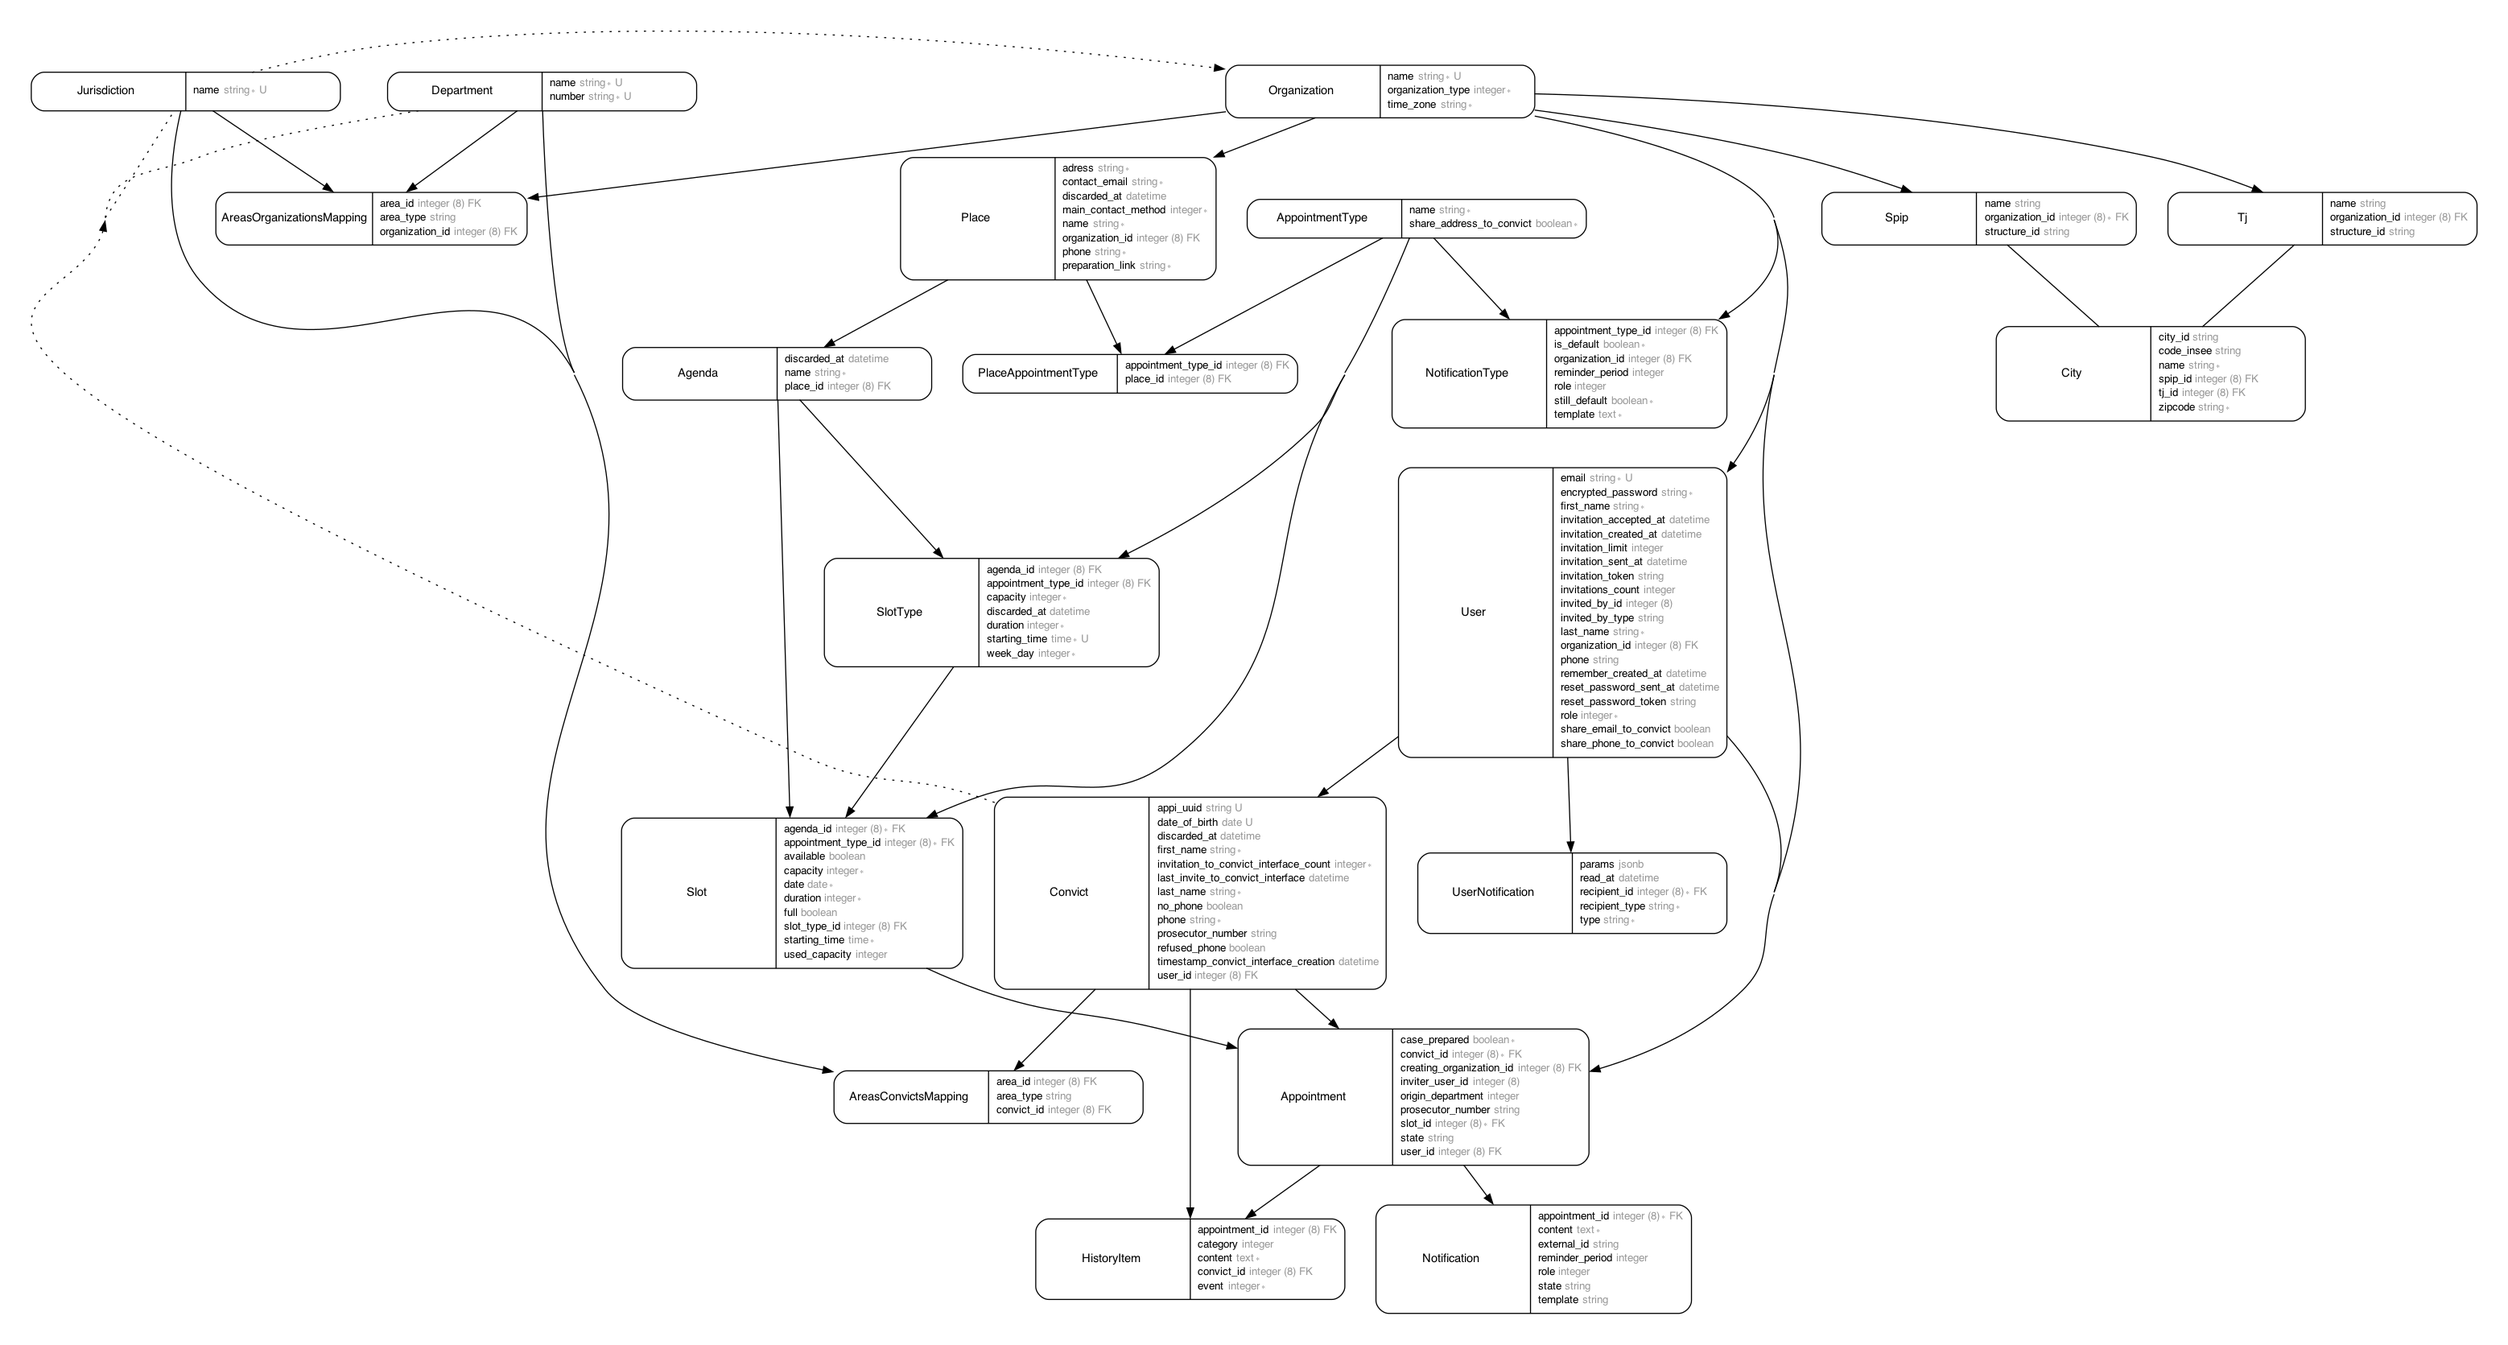
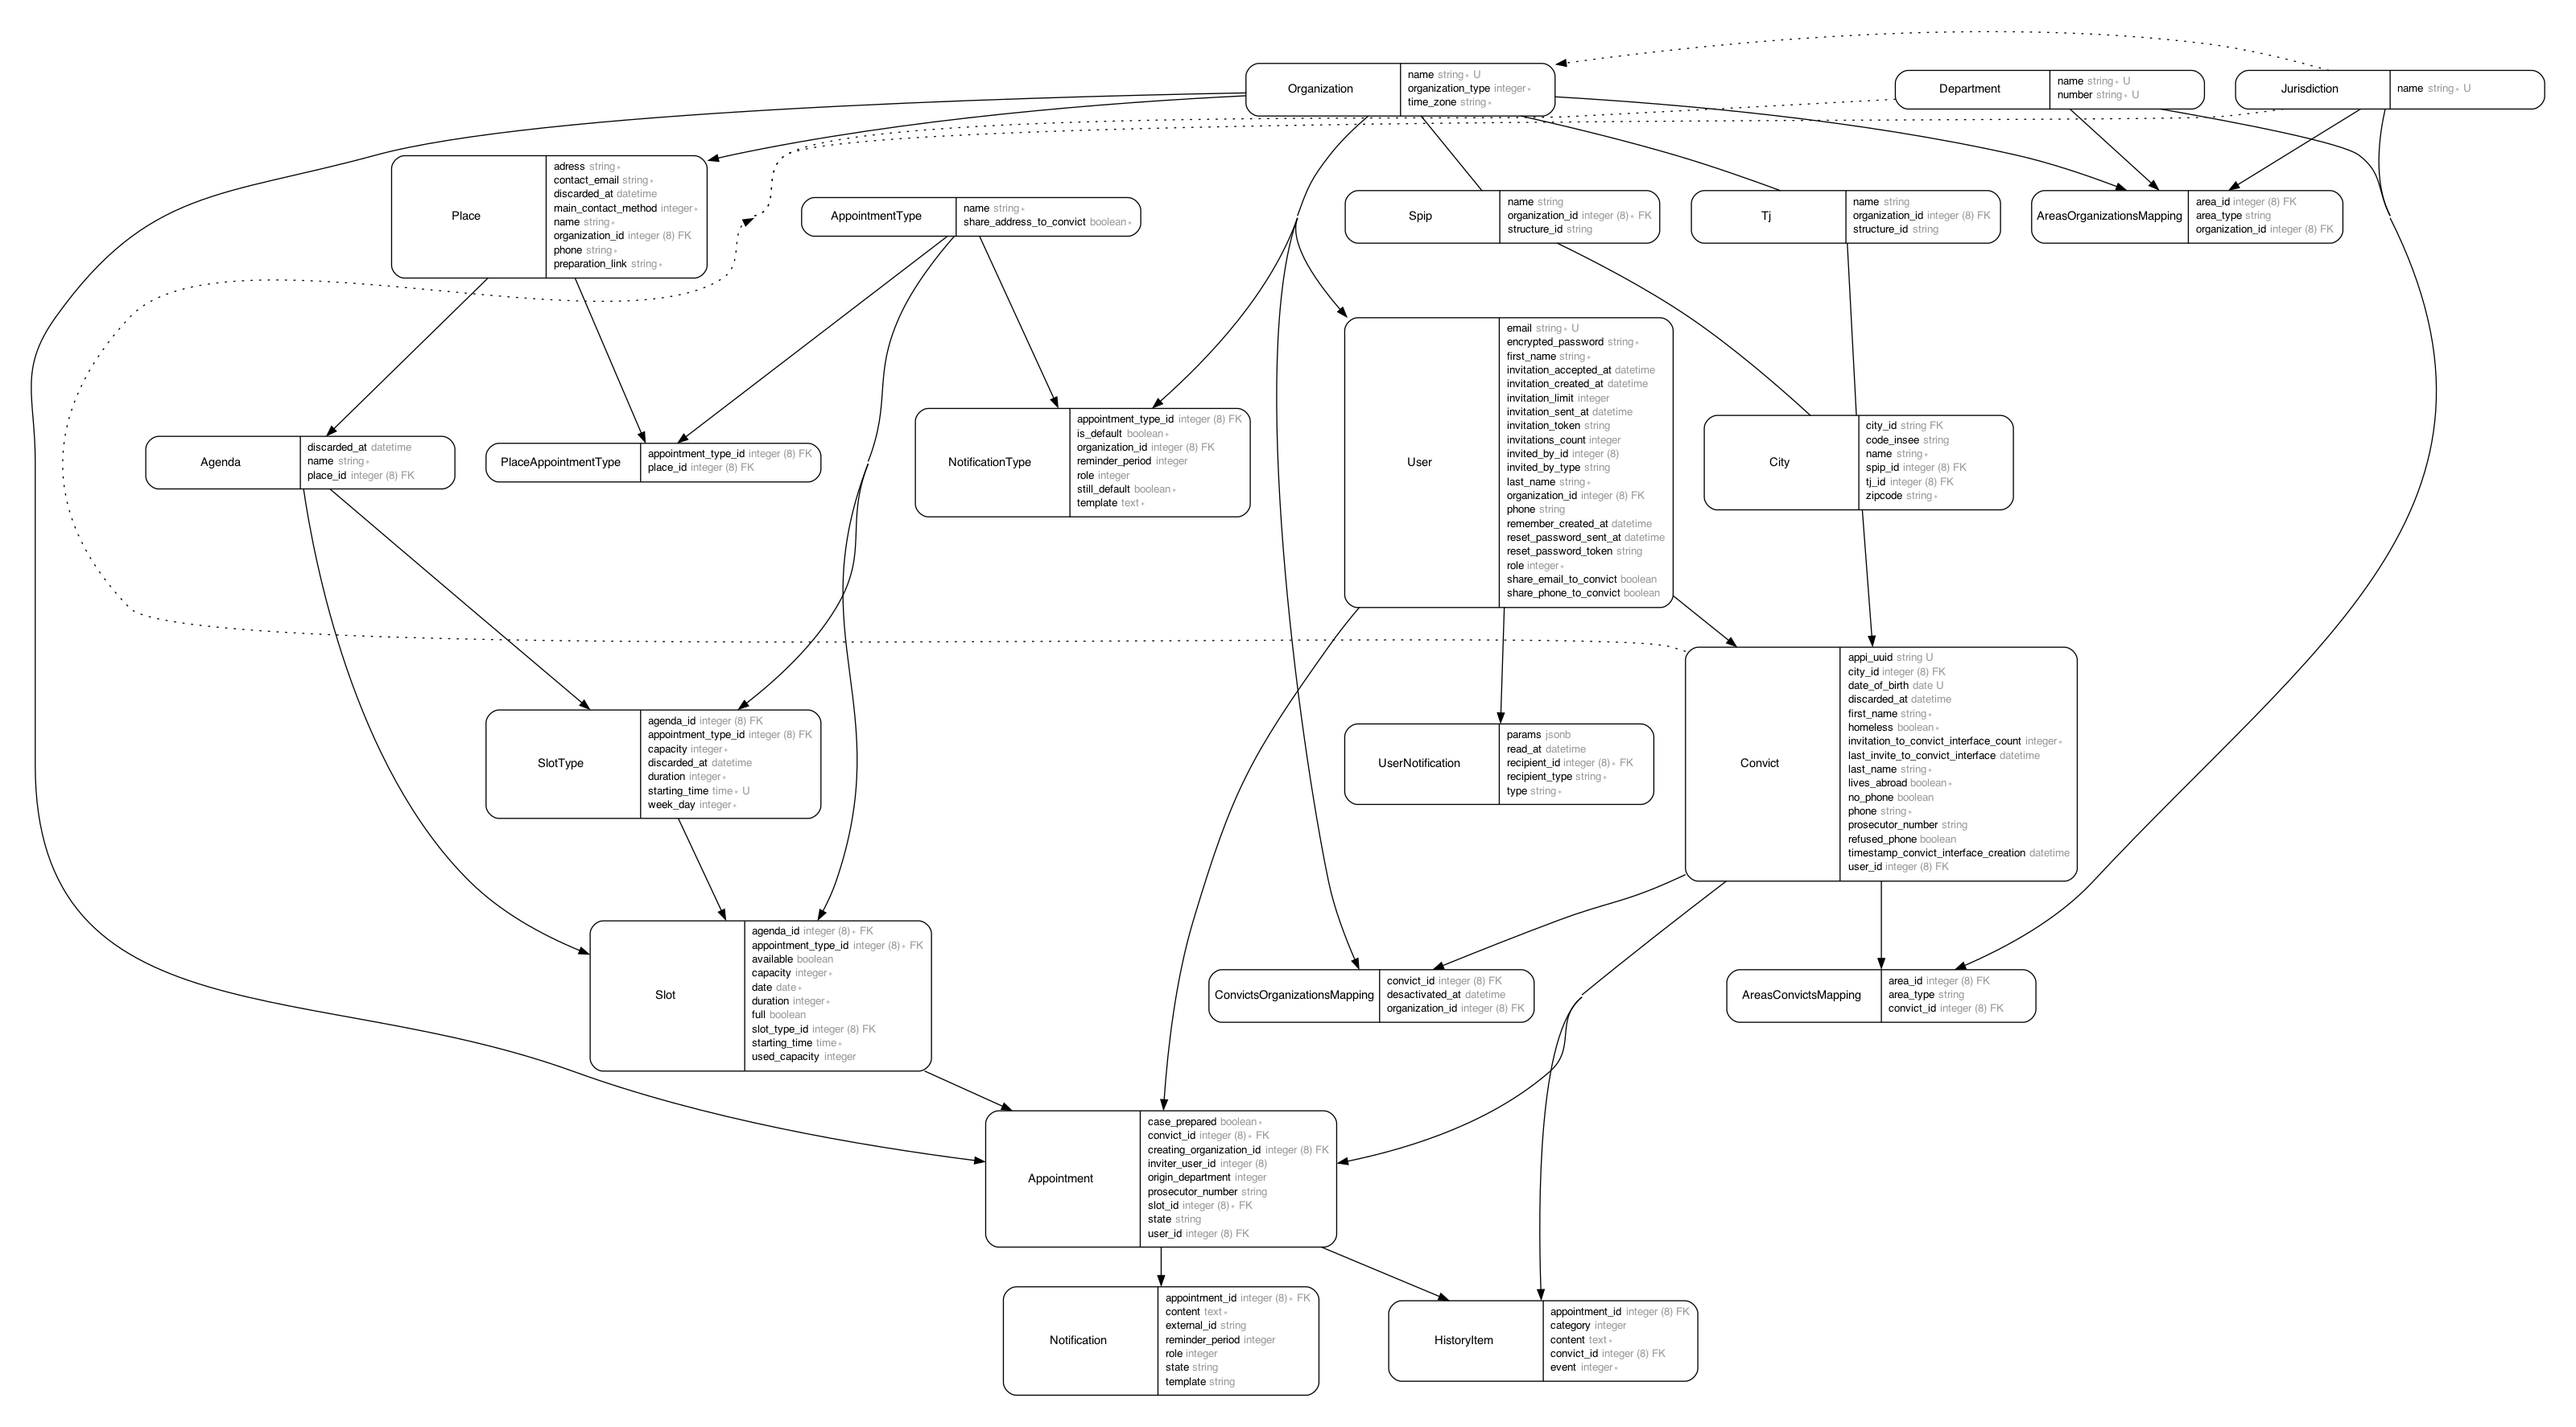
added many to many relation between convicts and organizations

diff --git a/app/assets/config/manifest.js b/app/assets/config/manifest.js
@@ -1,3 +1,5 @@
 //= link_tree ../images
 //= link_tree ../fonts
 //= link application.css
+//= link administrate-field-nested_has_many/application.css
+//= link administrate-field-nested_has_many/application.js

diff --git a/db/schema.rb b/db/schema.rb
@@ -10,7 +10,7 @@
 #
 # It's strongly recommended that you check this file into your version control system.
 
-ActiveRecord::Schema.define(version: 2023_01_24_143900) do
+ActiveRecord::Schema.define(version: 2023_02_02_152647) do
 
   # These are extensions that must be enabled in order to support this database
   enable_extension "plpgsql"
@@ -211,6 +211,16 @@ ActiveRecord::Schema.define(version: 2023_01_24_143900) do
     t.index ["user_id"], name: "index_convicts_on_user_id"
   end
 
+  create_table "convicts_organizations_mappings", force: :cascade do |t|
+    t.bigint "organization_id"
+    t.bigint "convict_id"
+    t.datetime "desactivated_at"
+    t.datetime "created_at", precision: 6, null: false
+    t.datetime "updated_at", precision: 6, null: false
+    t.index ["convict_id"], name: "index_convicts_organizations_mappings_on_convict_id"
+    t.index ["organization_id"], name: "index_convicts_organizations_mappings_on_organization_id"
+  end
+
   create_table "departments", force: :cascade do |t|
     t.string "number", null: false
     t.string "name", null: false
@@ -381,11 +391,11 @@ ActiveRecord::Schema.define(version: 2023_01_24_143900) do
     t.string "telephone", limit: 255
     t.string "telecopie", limit: 255
     t.string "email", limit: 255
-    t.string "code_insee"
+    t.string "code_insee", limit: 255
     t.string "code_postal", limit: 255
     t.string "ligne_acheminement", limit: 255
-    t.string "mnemo"
-    t.text "ville"
+    t.string "mnemo", limit: 255
+    t.bigint "tri"
     t.boolean "competent_matiere_nationale"
   end
 
@@ -406,7 +416,6 @@ ActiveRecord::Schema.define(version: 2023_01_24_143900) do
     t.string "libelle_court", limit: 255
     t.text "libelle_long"
     t.text "commentaire"
-    t.boolean "is_baj"
   end
 
   create_table "user_notifications", force: :cascade do |t|

diff --git a/app/dashboards/convict_dashboard.rb b/app/dashboards/convict_dashboard.rb
@@ -13,6 +13,7 @@ class ConvictDashboard < Administrate::BaseDashboard
     ),
     first_name: Field::String,
     last_name: Field::String,
+    organizations: Field::HasMany,
     appi_uuid: Field::String,
     city: Field::BelongsTo,
     appointments: Field::HasMany,
@@ -72,6 +73,7 @@ class ConvictDashboard < Administrate::BaseDashboard
   # on the model's form (`new` and `edit`) pages.
   FORM_ATTRIBUTES = %i[
     appi_uuid
+    organizations
     city
     first_name
     last_name

diff --git a/app/controllers/cities_controller.rb b/app/controllers/cities_controller.rb
@@ -3,13 +3,14 @@ class CitiesController < ApplicationController
 
     def services
         @city = City.find(city_params[:city_id])
-
-
-        
-
         authorize @city
 
-        render json: @city
+        @tj = city.tj.organization
+        @spip = city.spip.organization
+
+        @services = [tj: @tj, spip: @spip]
+
+        render json: @services
     end
 
     private

diff --git a/app/models/convict.rb b/app/models/convict.rb
@@ -10,6 +10,9 @@ class Convict < ApplicationRecord
 
   DOB_UNIQUENESS_MESSAGE = I18n.t('activerecord.errors.models.convict.attributes.dob.taken')
 
+  has_many :convicts_organizations_mappings
+  has_many :organizations, through: :convicts_organizations_mappings
+
   has_many :appointments, dependent: :destroy
   has_many :history_items, dependent: :destroy
 

diff --git a/db/migrate/20230202152647_create_join_table_organizations_convicts.rb b/db/migrate/20230202152647_create_join_table_organizations_convicts.rb
@@ -1,6 +1,6 @@
 class CreateJoinTableOrganizationsConvicts < ActiveRecord::Migration[6.1]
   def change
-    create_table :organizations_convicts do |t|
+    create_table :convicts_organizations_mappings do |t|
       t.belongs_to :organization
       t.belongs_to :convict
       t.datetime :desactivated_at

diff --git a/app/models/organization.rb b/app/models/organization.rb
@@ -15,6 +15,9 @@ class Organization < ApplicationRecord
   has_one :tj
   has_one :spip
 
+  has_many :convicts_organizations_mappings
+  has_many :convicts, through: :convicts_organizations_mappings
+
   enum organization_type: { spip: 0, tj: 1 }
 
   validates :organization_type, presence: true

diff --git a/app/models/convicts_organizations_mapping.rb b/app/models/convicts_organizations_mapping.rb
@@ -1,0 +1,5 @@
+class ConvictsOrganizationsMapping < ApplicationRecord
+    belongs_to :convict
+    belongs_to :organization
+end
+  
